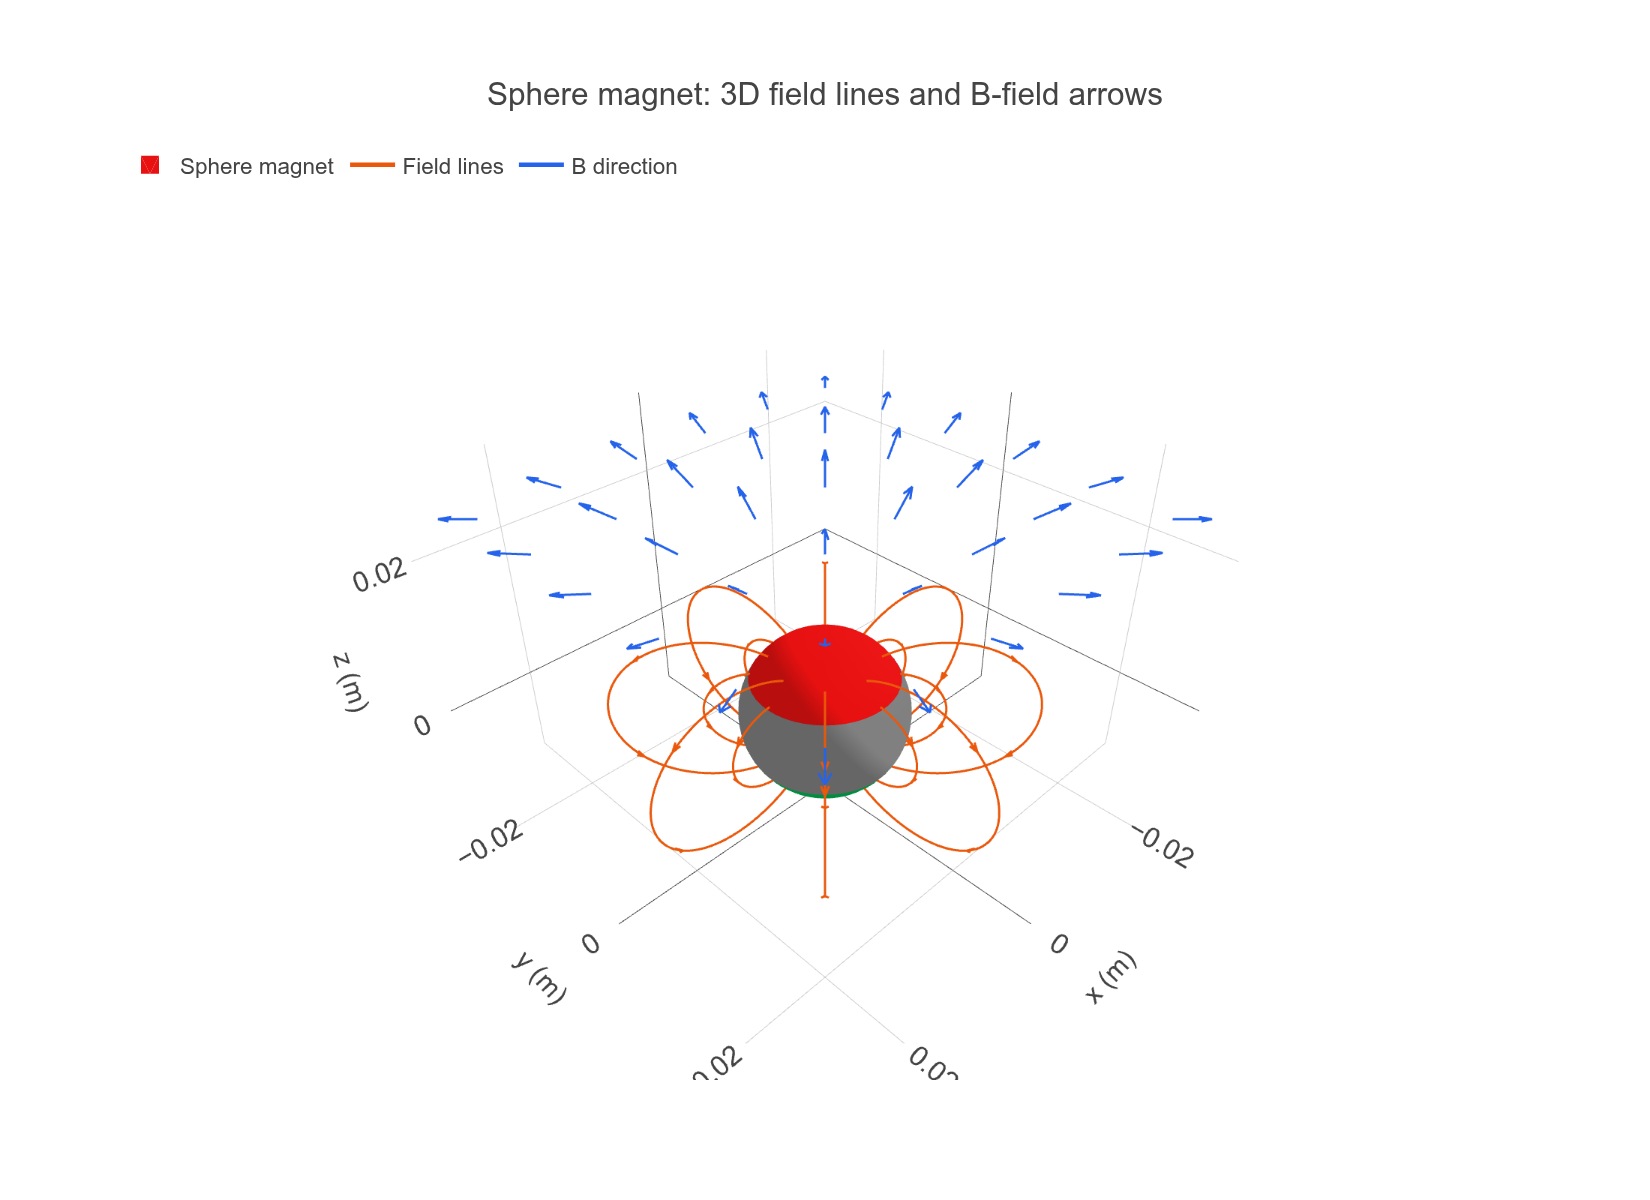
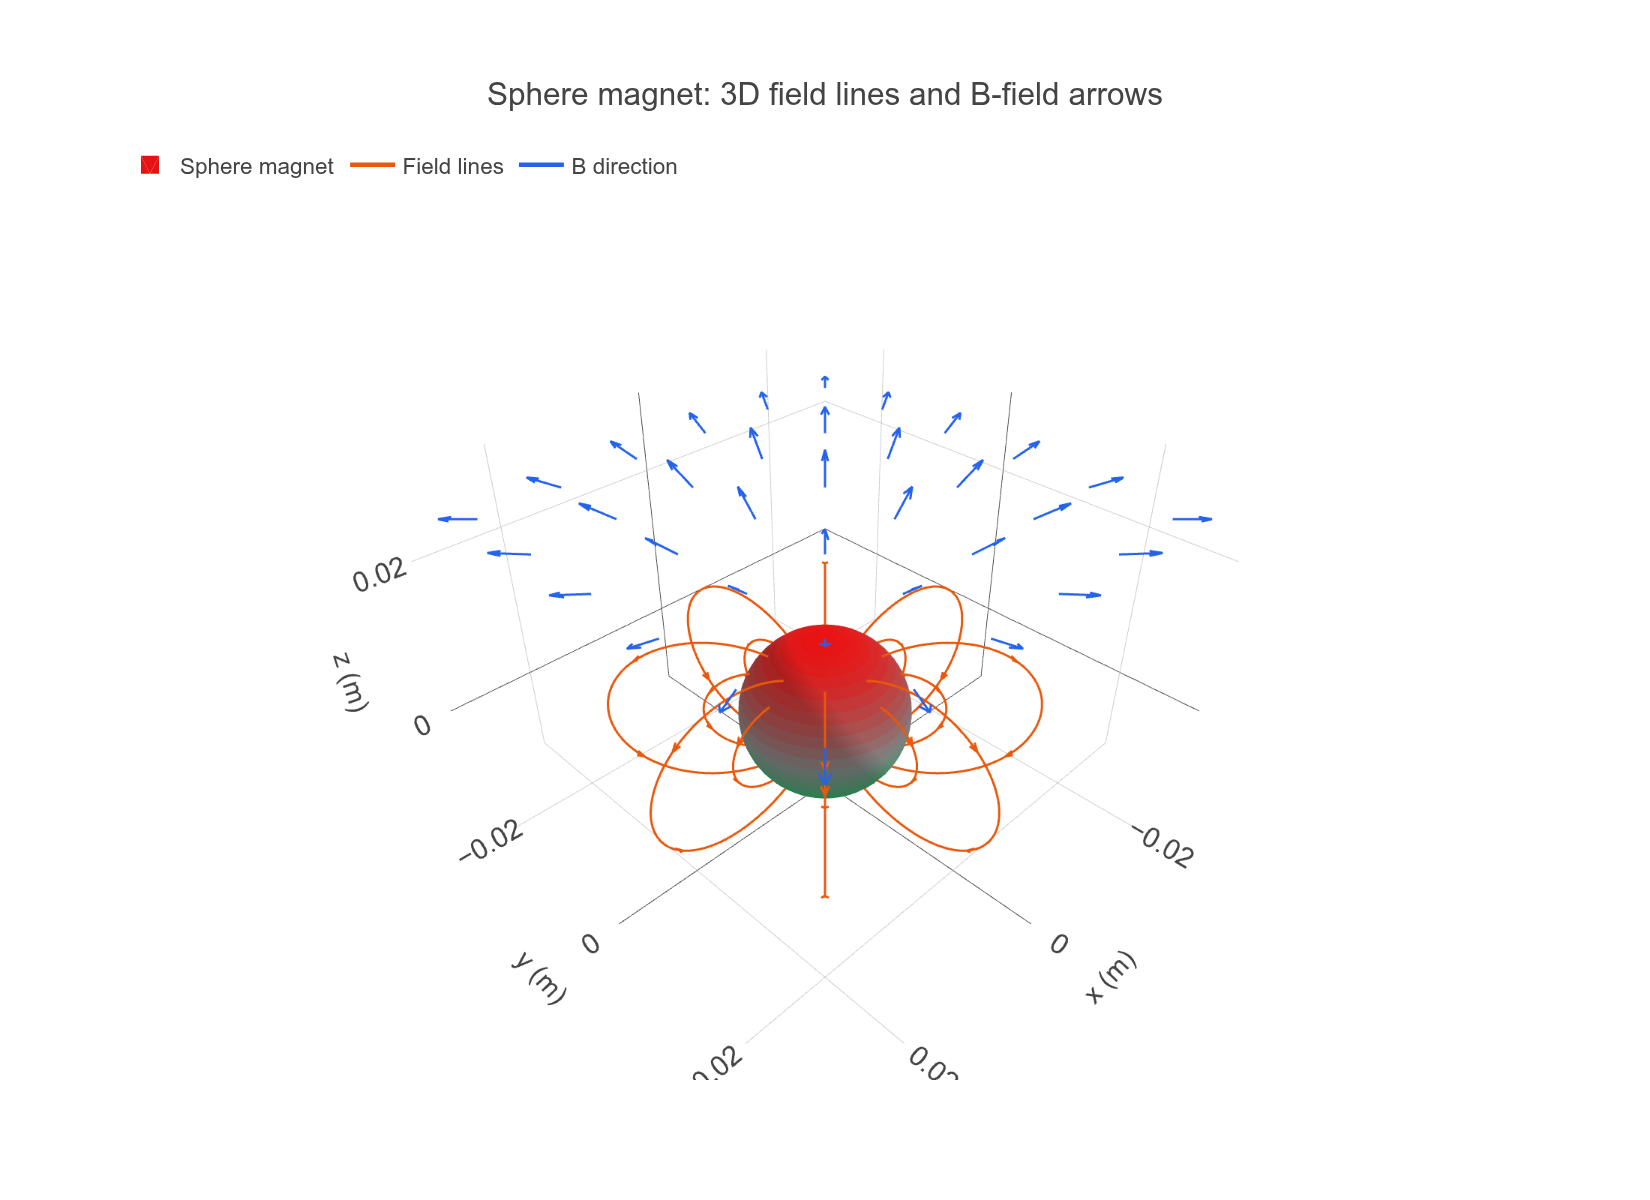
FIX: Fade magnet pole colors toward grey and refresh figures

Changed region(s): [[0.4327, 0.5242, 0.5564, 0.6783]]

diff --git a/src/graphics/plotly.rs b/src/graphics/plotly.rs
@@ -159,9 +159,9 @@ fn surface<T: Float>(
     .opacity(if poles.is_some() { 1.0 } else { 0.65 })
     .show_legend(true);
     if let Some((polarization, scheme)) = poles {
-        let (north, south) = scheme.poles();
+        let [north, south] = scheme.poles();
         // Surface charge is proportional to the outward normal dotted with polarization.
-        // Neutral faces and the equatorial belt remain grey. Work in local coordinates
+        // Fade towards grey as charge vanishes. Work in local coordinates
         // so rotation and translation cannot change a face's pole color.
         let direction = polarization.try_normalize(T::zero());
         let charges: Vec<_> = faces
@@ -180,12 +180,21 @@ fn surface<T: Float>(
         let colors: Vec<_> = charges
             .into_iter()
             .map(|charge| {
-                if charge > north_charge * 0.5 {
-                    north
-                } else if charge < south_charge * 0.5 {
-                    south
+                let ((color, rgb), strength) = if charge > 0.0 {
+                    (north, charge / north_charge)
+                } else if charge < 0.0 {
+                    (south, charge / south_charge)
                 } else {
-                    "grey"
+                    return "grey".to_owned();
+                };
+                let blended = rgb
+                    .map(|channel| (128.0 + (f64::from(channel) - 128.0) * strength).round() as u8);
+                if blended == rgb {
+                    color.to_owned()
+                } else if blended == [128; 3] {
+                    "grey".to_owned()
+                } else {
+                    format!("rgb({},{},{})", blended[0], blended[1], blended[2])
                 }
             })
             .collect();

diff --git a/tests/graphics.rs b/tests/graphics.rs
@@ -206,7 +206,41 @@ fn optional_palettes_propagate_through_nested_collections_and_arrays() {
         let colors = plot["data"][0]["facecolor"].as_array().unwrap();
         assert!(colors.iter().any(|c| c == north));
         assert!(colors.iter().any(|c| c == south));
-        assert!(colors.iter().any(|c| c == "grey"));
+        assert!(
+            colors
+                .iter()
+                .any(|c| c.as_str().unwrap().starts_with("rgb("))
+        );
+    }
+}
+
+#[test]
+fn pole_colors_blend_with_grey_in_proportion_to_surface_charge() {
+    use magba::graphics::MagnetColorScheme;
+
+    let magnet = CuboidMagnet::<f64>::default().with_polarization([0.5, 0.0, 1.0]);
+    for (scheme, north, south) in [
+        (MagnetColorScheme::Din, "rgb(180,73,73)", "rgb(64,152,104)"),
+        (
+            MagnetColorScheme::OkabeIto,
+            "rgb(179,144,64)",
+            "rgb(64,121,153)",
+        ),
+        (MagnetColorScheme::Trad, "rgb(192,64,64)", "rgb(64,64,192)"),
+    ] {
+        let plot: Value =
+            serde_json::from_str(&magnet.plot_with_color_scheme(scheme).to_json()).unwrap();
+        let colors = plot["data"][0]["facecolor"].as_array().unwrap();
+        assert_eq!(colors[6], north);
+        assert!(colors.iter().any(|color| color == south));
+        assert!(colors.iter().any(|color| color == "grey"));
+        let scaled = magnet.clone().with_polarization([5.0, 0.0, 10.0]);
+        let scaled_plot: Value =
+            serde_json::from_str(&scaled.plot_with_color_scheme(scheme).to_json()).unwrap();
+        assert_eq!(
+            scaled_plot["data"][0]["facecolor"],
+            plot["data"][0]["facecolor"]
+        );
     }
 }
 

diff --git a/src/graphics/mod.rs b/src/graphics/mod.rs
@@ -20,7 +20,7 @@ pub mod plotly;
 #[cfg(feature = "graphics-plotly")]
 pub use plotly::{FieldGraphics, Graphics};
 
-/// Pole colors used for magnet surfaces. The uncharged body is always grey.
+/// Pole colors used for magnet surfaces, fading to grey as surface charge vanishes.
 #[derive(Clone, Copy, Debug, Default, PartialEq, Eq)]
 pub enum MagnetColorScheme {
     /// Red north and green south, following Magpylib's DIN SPEC 91411 palette.
@@ -34,11 +34,11 @@ pub enum MagnetColorScheme {
 
 #[cfg(feature = "graphics-plotly")]
 impl MagnetColorScheme {
-    pub(super) fn poles(self) -> (&'static str, &'static str) {
+    pub(super) fn poles(self) -> [(&'static str, [u8; 3]); 2] {
         match self {
-            Self::Din => ("#e71111", "#00b050"),
-            Self::OkabeIto => ("#E69F00", "#0072B2"),
-            Self::Trad => ("red", "blue"),
+            Self::Din => [("#e71111", [231, 17, 17]), ("#00b050", [0, 176, 80])],
+            Self::OkabeIto => [("#E69F00", [230, 159, 0]), ("#0072B2", [0, 114, 178])],
+            Self::Trad => [("red", [255, 0, 0]), ("blue", [0, 0, 255])],
         }
     }
 }

diff --git a/examples/figures/README.md b/examples/figures/README.md
@@ -71,7 +71,8 @@ triangle-current examples each trace field lines from three rings of seeds.
 The collection example combines two oppositely polarized magnets and a current
 loop, tracing their total field. All share the output helper in `examples/common`.
 
-Magnet surfaces use grey for neutral faces, red for north, and green for south.
+Magnet surfaces use grey for neutral faces, red for north, and green for south,
+with pole colors fading toward grey as surface charge decreases.
 The `graphics` example also shows the optional orange/blue (`OkabeIto`) and
 red/blue (`Trad`) palettes. Run it with `cargo run --example graphics --features graphics-plotly`.
 

diff --git a/README.md b/README.md
@@ -146,7 +146,7 @@ Magnet surfaces are opaque by default, with grey bodies, red north poles, and
 green south poles, using
 [Magpylib's DIN SPEC 91411 palette](https://magpylib.readthedocs.io/en/stable/_pages/user_guide/docs/docs_styles.html).
 Colors follow local polarization and rotate with the magnet. Neutral surfaces
-remain grey; curved surfaces have a grey equatorial belt.
+remain grey; pole colors fade toward grey as surface charge decreases.
 Choose orange/blue (`okabe-ito`) or red/blue (`trad`) with
 `MagnetColorScheme::OkabeIto` or `MagnetColorScheme::Trad`:
 
